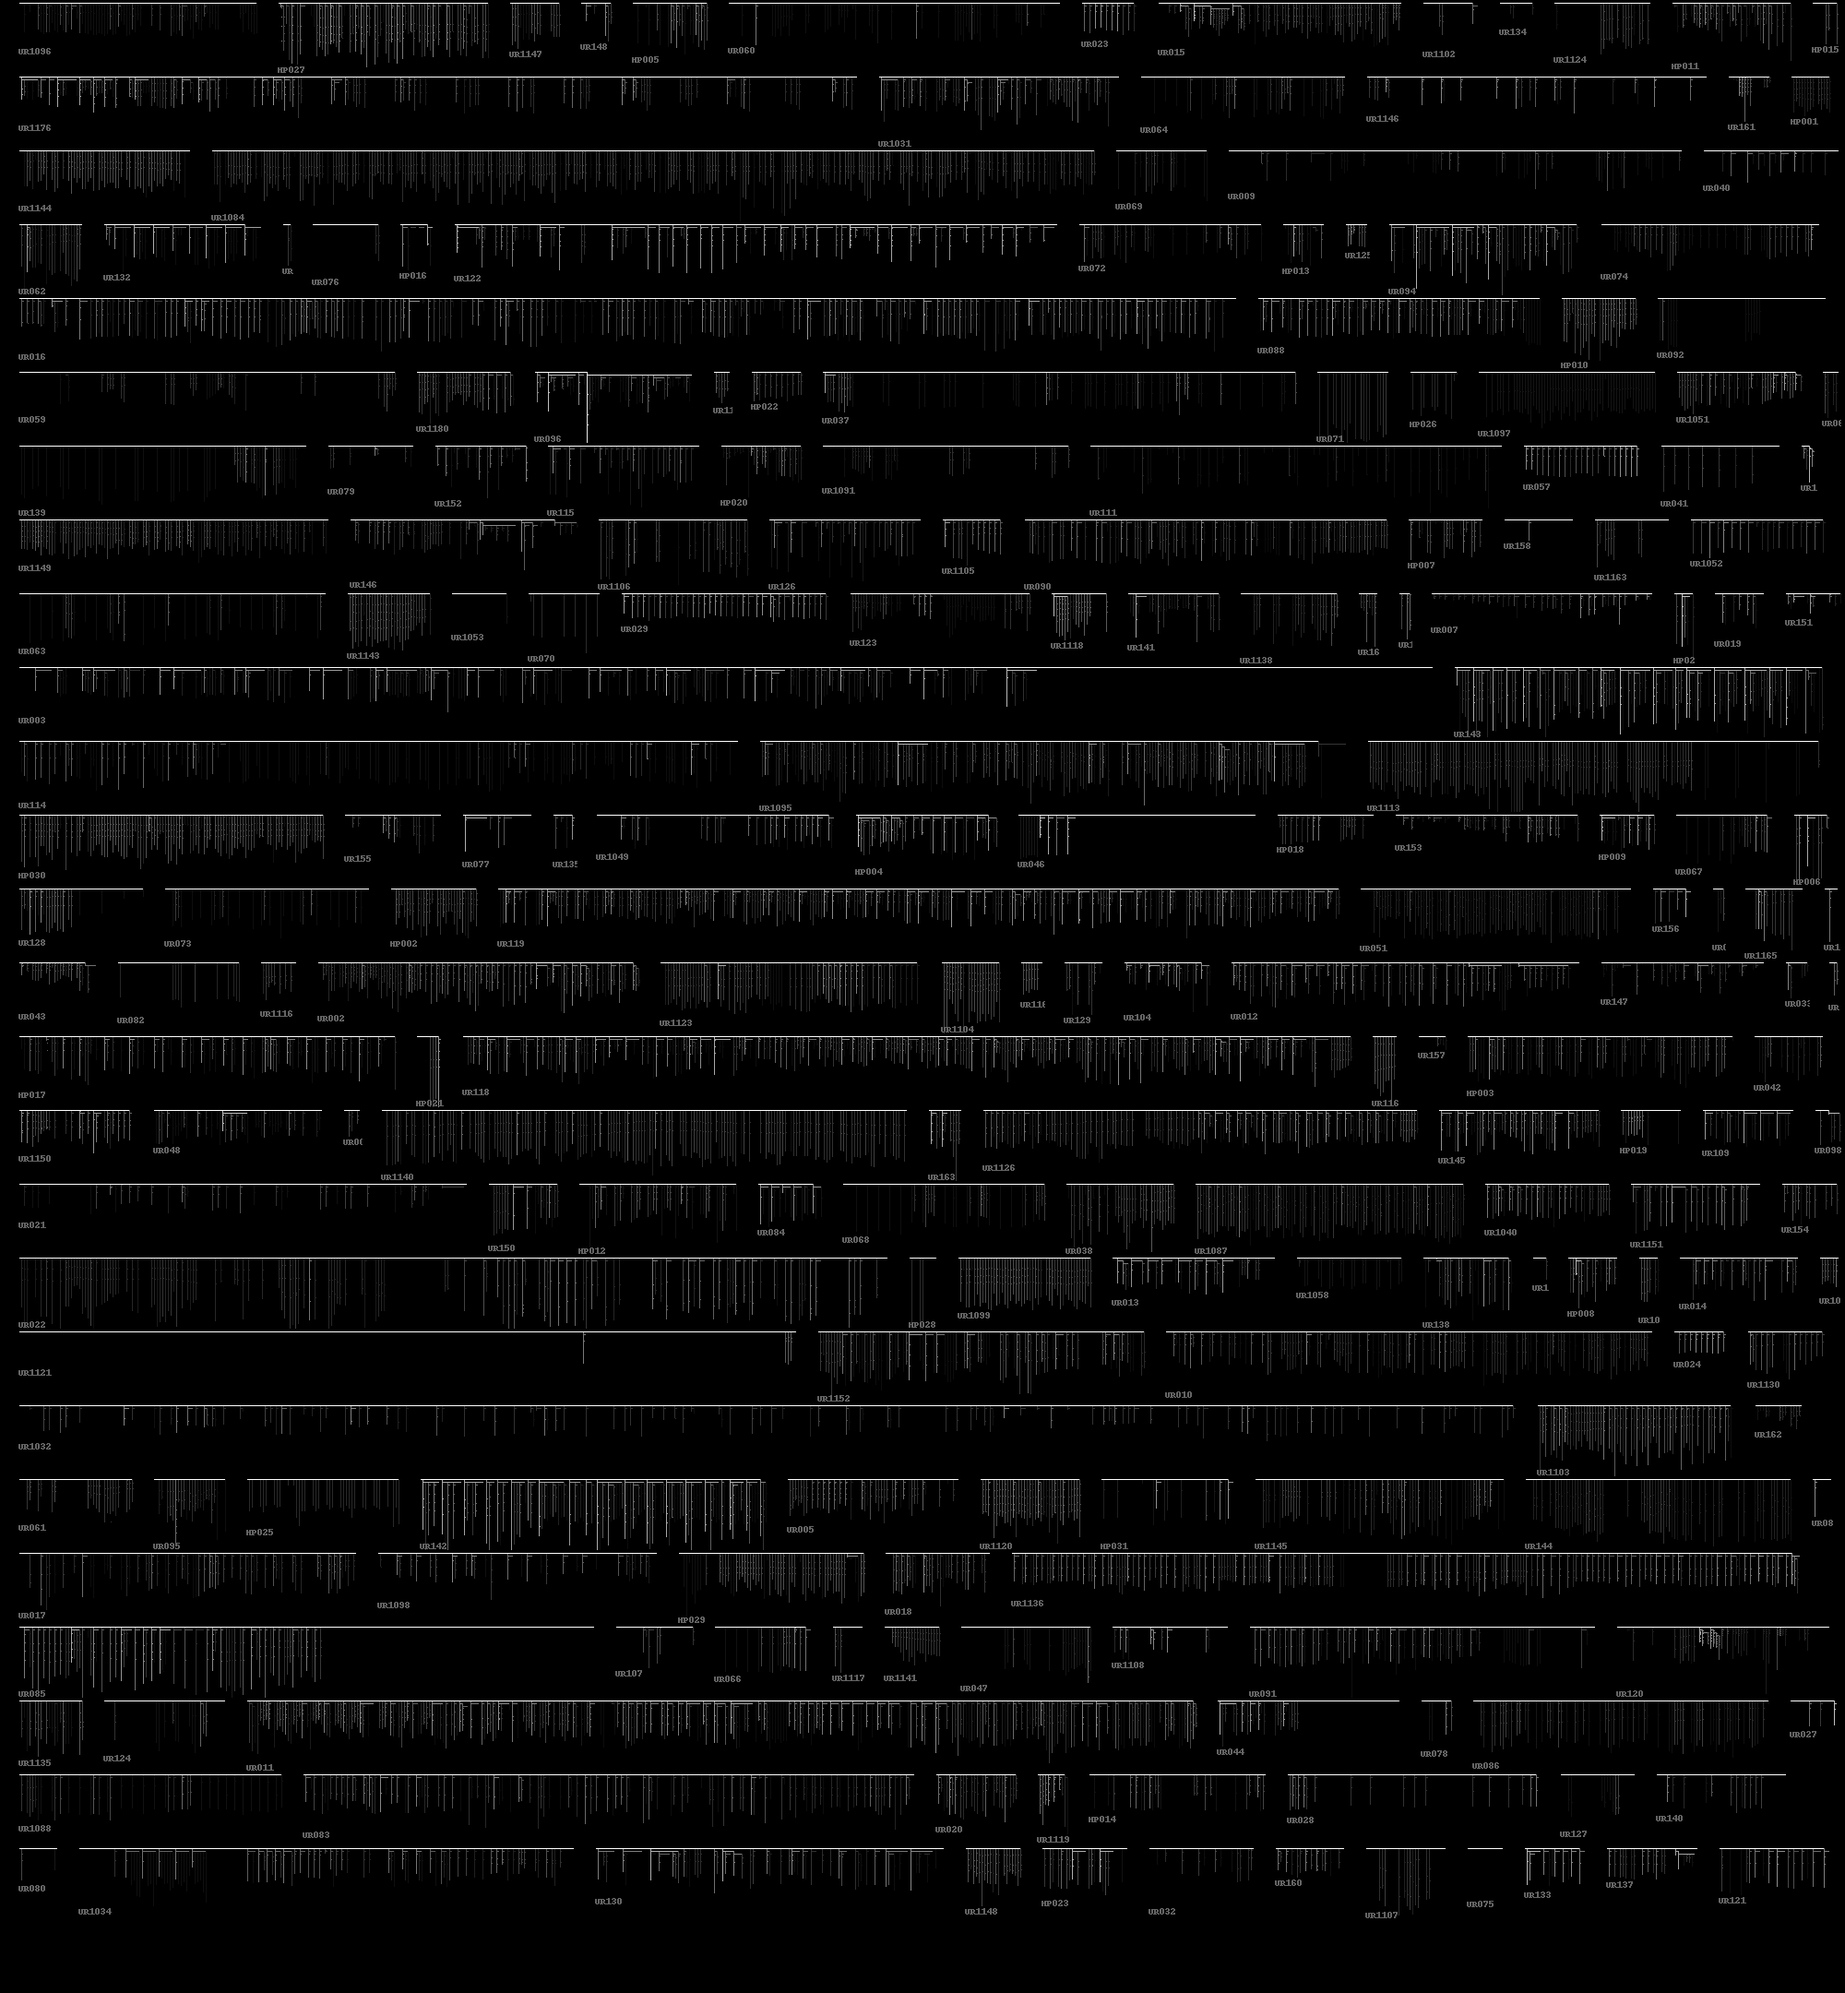
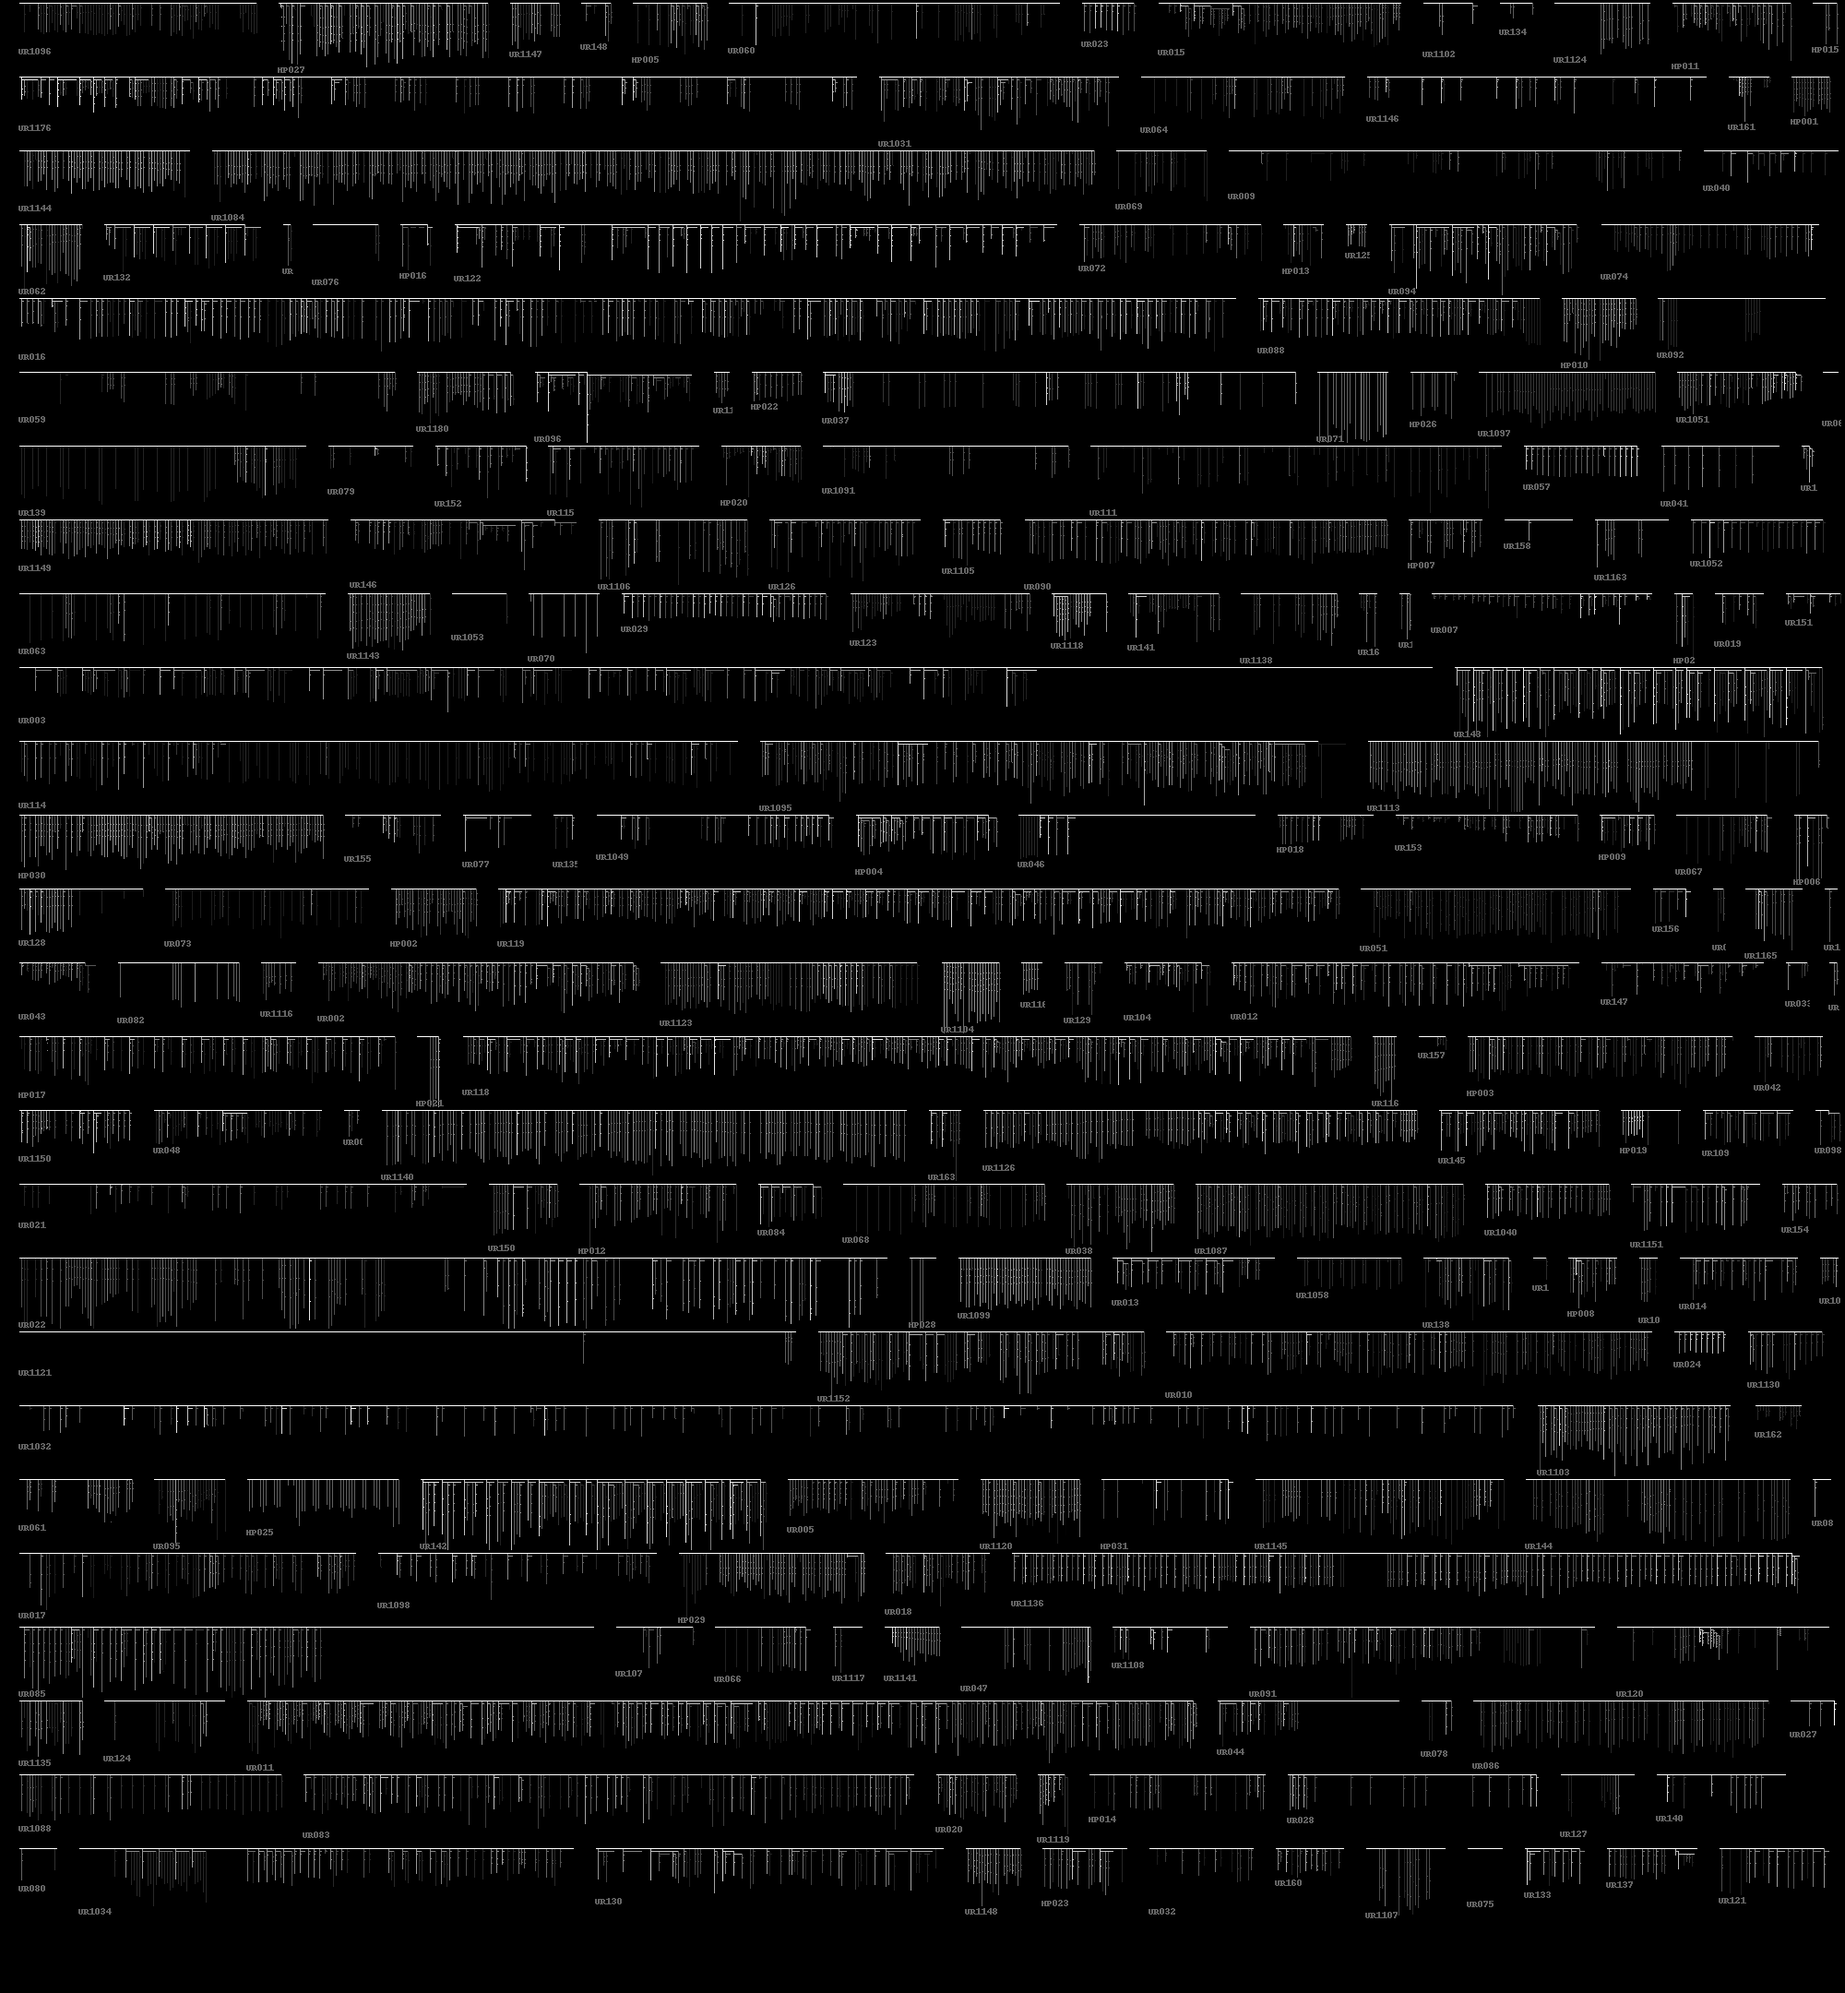
new sc quipu soup

diff --git a/quipupixel.py b/quipupixel.py
@@ -107,7 +107,8 @@ class pendant:
         if x>0 and x<pixels.shape[1] and y>0 and y<pixels.shape[0]:
             if self.entropy!=-1:
                 v=(self.entropy-_min_entropy)/(_max_entropy-_min_entropy)
-                v*=255
+                v*=225
+                v+=25
                 pixels[y,x]=(v,v,v)
             else:
                 pixels[y,x]=c
@@ -116,11 +117,11 @@ class pendant:
     def as_raw(self, collect):
         collect["ply"]+=[self.ply]
         collect["attach"]+=[self.attach]
-        collect["length"]+=[self.length]
+        #collect["length"]+=[self.length]
         collect["colours"]+=self.colours
         collect["knot_value"]+=map(lambda k: k.value, self.knots)
         collect["knot_type"]+=map(lambda k: k.type, self.knots)
-        collect["knot_position"]+=map(lambda k: k.position, self.knots)
+        #collect["knot_position"]+=map(lambda k: k.position, self.knots)
         collect["knot_spin"]+=map(lambda k: k.spin, self.knots)
         for c in self.children:
             c.as_raw(collect)
@@ -315,8 +316,8 @@ def run(filename):
         return False
 
     primary = parse_to_pendant_tree(quipu)
-    #reset_entropy()
-    #primary.calc_entropy()
+#    reset_entropy()
+#    primary.calc_entropy()
     #f = open(filename+".json","w")
     #f.write(primary.as_json(0))
     #f.close()
@@ -400,11 +401,11 @@ def pairwise_entropy_comp(filenames):
         collect = empty_collect()
         primary.as_raw(collect)
         x+=[entropy.calc(collect["ply"])]
-        y+=[entropy.calc(collect["knot_value"])]
+        y+=[entropy.calc(collect["knot_type"])]
         l+=[os.path.basename(filename)[:-4]]
 
     plt.xlabel('pendant ply entropy (bits)')
-    plt.ylabel('knot value entropy (bits)')
+    plt.ylabel('knot type entropy (bits)')
 
     plt.scatter(x, y)
     for i, txt in enumerate(l):
